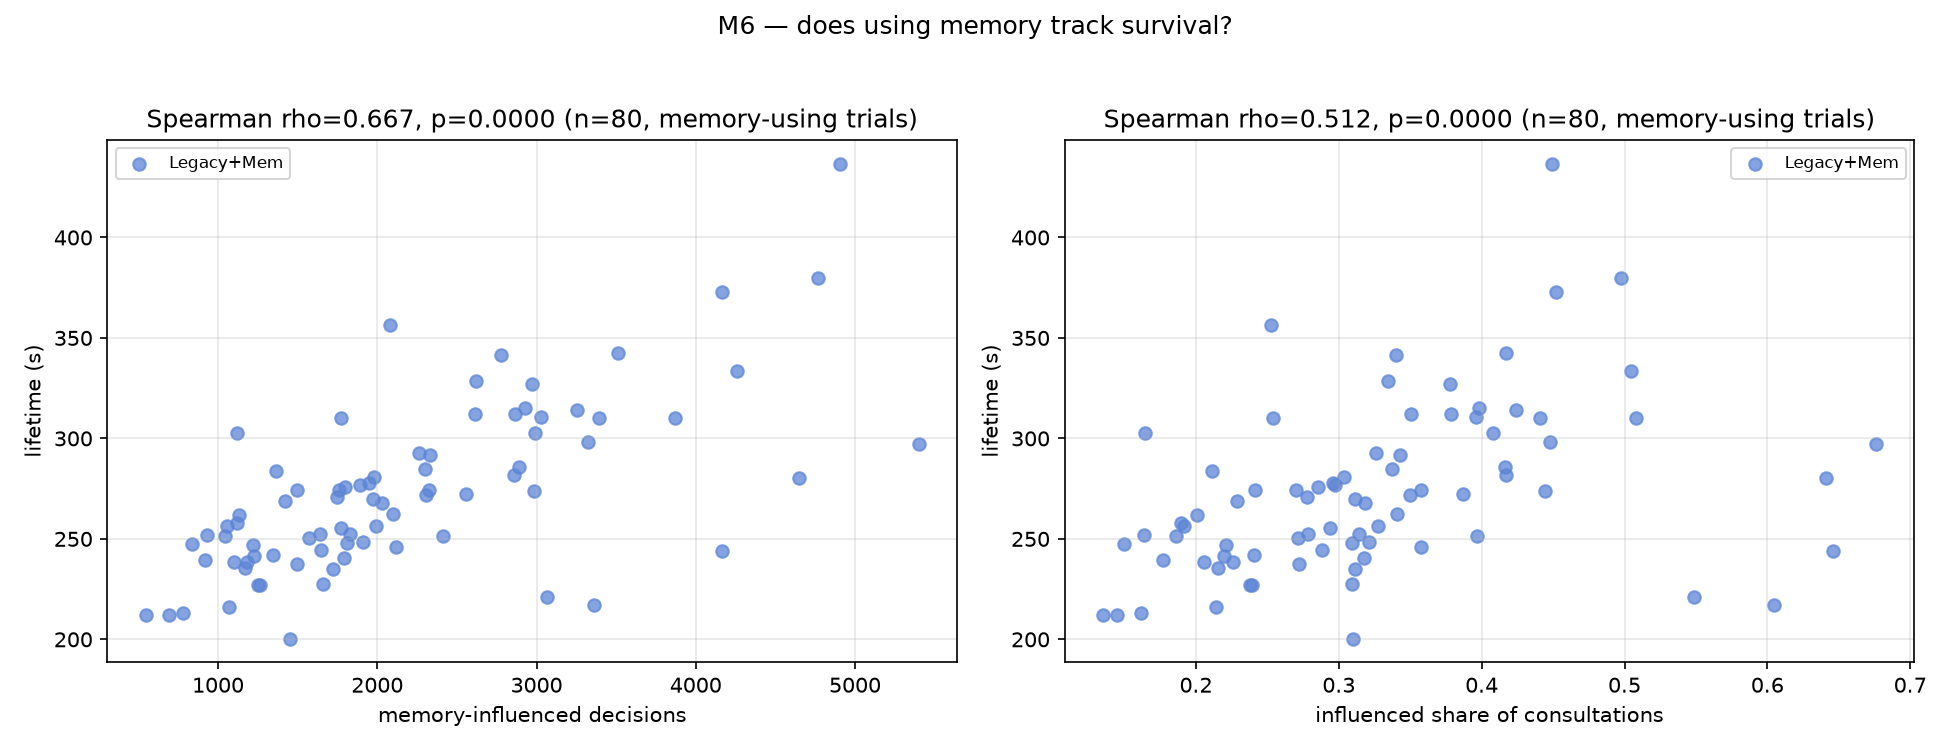
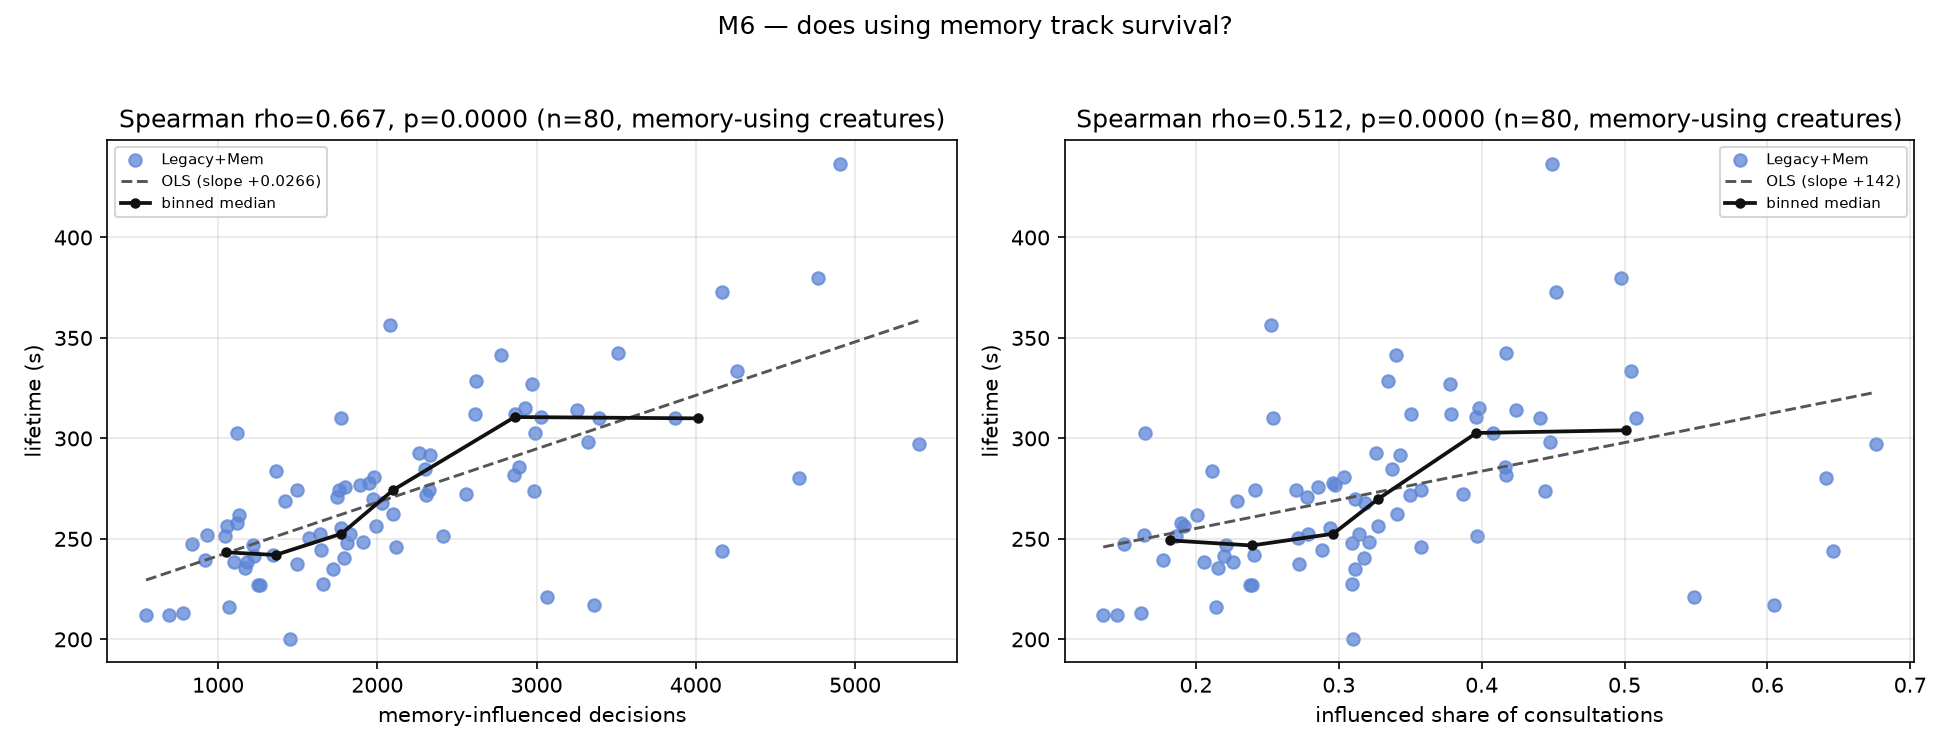
feat(p84): give M6 a trend line — and it shows the benefit saturates
M6 plotted a scatter with a Spearman coefficient in the title and nothing drawn through the
points, so the association it reports had to be taken on trust.

Two lines, not one. The dashed OLS fit is what a reader expects, but on its own it would assert
a linearity the statistic never tested — Spearman is a RANK correlation, chosen precisely
because lifetime is right-skewed and a couple of long-lived outliers can swing a least-squares
line. The solid binned-median line shows the monotone trend Spearman does test and is robust to
those outliers.

They disagree, which is the point. The binned median PLATEAUS at roughly 2,800 memory-influenced
decisions (~0.40 of consultations) while OLS keeps rising, so the benefit of using memory
saturates: the first increments buy most of the extra lifetime and further use adds little.
Reporting only the OLS line would have implied a benefit that continues indefinitely.

The report's caption now states that, the coefficients (rho=+0.667 count, +0.512 share, both
p<0.0001, n=80), and the figure's real scope — only legacy_mem contributes, because M6 needs a
lifetime and the other two memory arms have no deaths at all.

Refs #84

diff --git a/analysis/experiments/p84_memory_common.py b/analysis/experiments/p84_memory_common.py
@@ -402,6 +402,43 @@ def consolidation(episodes: pd.DataFrame, traces: pd.DataFrame, creatures: pd.Da
 # M6 — is memory helpful?
 # ---------------------------------------------------------------------------
 
+def _trend(ax, x, y, bins: int = 6) -> None:
+    """Draw the association the scatter is claiming: a binned-median trend and an OLS line.
+
+    Both, because they answer different questions and disagreeing is informative. The reported
+    statistic is Spearman — a RANK correlation, chosen because lifetime is heavily right-skewed
+    — so an OLS line alone would quietly assert a linearity the statistic never tested, and a
+    couple of long-lived outliers can swing it. The binned medians show the monotone trend
+    Spearman actually measures and are robust to those outliers.
+    """
+    x = np.asarray(x, dtype=float)
+    y = np.asarray(y, dtype=float)
+    ok = ~(np.isnan(x) | np.isnan(y))
+    x, y = x[ok], y[ok]
+    if len(x) < 3 or np.ptp(x) == 0:
+        return
+
+    # OLS, dashed — descriptive only.
+    slope, intercept = np.polyfit(x, y, 1)
+    xs = np.linspace(x.min(), x.max(), 50)
+    ax.plot(xs, slope * xs + intercept, ls="--", lw=1.4, color="#555555",
+            label=f"OLS (slope {slope:+.3g})", zorder=3)
+
+    # Binned medians, solid — the monotone trend Spearman tests, robust to skew.
+    edges = np.quantile(x, np.linspace(0, 1, bins + 1))
+    edges = np.unique(edges)
+    if len(edges) >= 3:
+        centres, meds = [], []
+        for lo, hi in zip(edges[:-1], edges[1:]):
+            m = (x >= lo) & (x <= hi if hi == edges[-1] else x < hi)
+            if m.sum() >= 2:
+                centres.append(np.median(x[m]))
+                meds.append(np.median(y[m]))
+        if len(centres) >= 2:
+            ax.plot(centres, meds, "-o", lw=1.8, ms=4, color="#111111",
+                    label="binned median", zorder=4)
+
+
 def memory_use_vs_survival(decisions: pd.DataFrame, creatures: pd.DataFrame, cfg) -> dict:
     """Lifetime against how much the creature actually used memory, pooled across arms.
 
@@ -448,10 +485,11 @@ def memory_use_vs_survival(decisions: pd.DataFrame, creatures: pd.DataFrame, cfg
         if len(sub) >= 3:
             rho, p = scipy_stats.spearmanr(sub[col], sub["lifetime_s"])
             stats[col] = (rho, p, len(sub))
-            ax.set_title(f"Spearman rho={rho:.3f}, p={p:.4f} (n={len(sub)}, memory-using trials)")
+            ax.set_title(f"Spearman rho={rho:.3f}, p={p:.4f} (n={len(sub)}, memory-using creatures)")
+            _trend(ax, sub[col].values, sub["lifetime_s"].values)
         ax.set_xlabel(xlabel)
         ax.set_ylabel("lifetime (s)")
-        ax.legend(fontsize=8)
+        ax.legend(fontsize=7)
         ax.grid(alpha=0.3)
 
     fig.suptitle("M6 — does using memory track survival?")

diff --git a/docs/reports/20260812_p84_behaviour_parity_report.md b/docs/reports/20260812_p84_behaviour_parity_report.md
@@ -43,16 +43,16 @@ Restated from the recipe because several of them determine what the results can 
 
 ## Hypothesis
 
-| ID | Claim |
-|---|---|
-| **P1** | Memory shortens the interaction interval, and the gap widens with k (Mapa Fig. 47) |
-| **P2** | With memory, RANDOM is displaced as memory engages (Campos Fig. 5/6) |
-| **P3** | Nearest and Affordances are used similarly with and without memory |
-| **P4** | Memory extends life; ratio compared against Campos's 6.7× |
-| **P5** | Time alive rises with interaction count, memory above no-memory (shape only) |
+| ID     | Claim                                                                                   |
+| ------ | --------------------------------------------------------------------------------------- |
+| **P1** | Memory shortens the interaction interval, and the gap widens with k (Mapa Fig. 47)      |
+| **P2** | With memory, RANDOM is displaced as memory engages (Campos Fig. 5/6)                    |
+| **P3** | Nearest and Affordances are used similarly with and without memory                      |
+| **P4** | Memory extends life; ratio compared against Campos's 6.7×                               |
+| **P5** | Time alive rises with interaction count, memory above no-memory (shape only)            |
 | **S1** | In the all-rewarding world the interval decreases monotonically, unlike the mixed world |
-| **D1** | Learned APPROACH share against Mapa's 0.25/0.40/0.70 |
-| **D2** | Memory forms, is increasingly used and increasingly decisive; use tracks survival |
+| **D1** | Learned APPROACH share against Mapa's 0.25/0.40/0.70                                    |
+| **D2** | Memory forms, is increasingly used and increasingly decisive; use tracks survival       |
 
 ---
 
@@ -62,11 +62,11 @@ Restated from the recipe because several of them determine what the results can 
 
 Rate, not count, because the arms terminate differently (assumption 5).
 
-| pair | no-memory | memory | Cliff's δ | creature-level | trial-level |
-|---|---|---|---|---|---|
-| legacy | 11.31 | **13.37** | +0.718 | p=4.4e-15 | p=1.5e-06 ✓ |
-| current | 73.50 | **88.68** | — | p<1e-15 | p=1.5e-06 ✓ |
-| simple | 39.07 | **41.01** | — | p=0.001 | p=0.004 ✓ |
+| pair    | no-memory | memory    | Cliff's δ | creature-level | trial-level |
+| ------- | --------- | --------- | --------- | -------------- | ----------- |
+| legacy  | 11.31     | **13.37** | +0.718    | p=4.4e-15      | p=1.5e-06 ✓ |
+| current | 73.50     | **88.68** | —         | p<1e-15        | p=1.5e-06 ✓ |
+| simple  | 39.07     | **41.01** | —         | p=0.001        | p=0.004 ✓   |
 
 All `consistent` — creature-level and trial-level agree, so this is not within-trial
 pseudo-replication.
@@ -75,11 +75,11 @@ pseudo-replication.
 
 RANDOM collapses to near zero wherever memory is enabled, and the operant table absorbs it:
 
-| pair | RANDOM (no-mem → mem) | AFFORDANCE (no-mem → mem) |
-|---|---|---|
-| legacy | 0.283 → **0.008** | 0.536 → 0.748 |
-| current | 0.668 → **0.003** | 0.228 → 0.873 |
-| simple | 0.668 → **0.048** | 0.288 → 0.773 |
+| pair    | RANDOM (no-mem → mem) | AFFORDANCE (no-mem → mem) |
+| ------- | --------------------- | ------------------------- |
+| legacy  | 0.283 → **0.008**     | 0.536 → 0.748             |
+| current | 0.668 → **0.003**     | 0.228 → 0.873             |
+| simple  | 0.668 → **0.048**     | 0.288 → 0.773             |
 
 This is Campos's central claim — random choice stops being needed once memory engages — and it
 reproduces in every pair, `consistent` at both levels.
@@ -110,11 +110,11 @@ which is P3; the collapse of red RANDOM into orange AFFORDANCE is P2.*
 
 ### P4 — confirmed in the only pair that can test it
 
-| pair | mortality | KM median | log-rank |
-|---|---|---|---|
-| legacy | 80/80 vs 80/80 | 243 s → **269 s** (1.11×) | χ²=15.8, **p=0.0001** |
-| current | 0/80 vs 0/80 | beyond cap | no events |
-| simple | 0/80 vs 0/80 | beyond cap | no events |
+| pair    | mortality      | KM median                 | log-rank              |
+| ------- | -------------- | ------------------------- | --------------------- |
+| legacy  | 80/80 vs 80/80 | 243 s → **269 s** (1.11×) | χ²=15.8, **p=0.0001** |
+| current | 0/80 vs 0/80   | beyond cap                | no events             |
+| simple  | 0/80 vs 0/80   | beyond cap                | no events             |
 
 Memory extends life, but at **1.11×** against Campos's published **6.7×** — we reproduce the
 direction, not the magnitude. The other two pairs cannot test P4 at any cap: their creatures do
@@ -203,9 +203,21 @@ deciles.*
 
 ![Memory use vs survival](figures/p84_behaviour_parity/m6_memory_use_vs_survival.png)
 
-*M6 — lifetime against how much the creature actually used memory, pooled across arms. This is
-the plot that most directly asks whether **using** memory (not merely having it) tracks
-survival, using the spread across arms as natural variation.*
+*M6 — lifetime against how much the creature actually used memory. This is the plot that most
+directly asks whether **using** memory, not merely having it, tracks survival:
+**Spearman ρ=+0.667 (count) and +0.512 (share), both p<0.0001, n=80**.*
+
+*Two trend lines, because they disagree in an informative way. The dashed OLS line is
+descriptive only — the reported statistic is Spearman, a rank correlation chosen because
+lifetime is right-skewed. The solid binned-median line shows the monotone trend Spearman
+actually tests, and it **plateaus** at roughly 2,800 influenced decisions (~0.40 of
+consultations) while OLS keeps climbing. So the benefit of using memory **saturates**: the first
+increments of memory use buy most of the extra lifetime and further use adds little. An OLS line
+alone would have implied a linear benefit that continues indefinitely.*
+
+*Scope: only `legacy_mem` contributes. M6 needs a real lifetime, and the other two memory arms
+have no deaths at all (0/80), so their `lifetime_s` is null by construction. This is the same
+restriction that limits P4, for the same reason.*
 
 M5 (consolidation) is absent: no arm enables `consolidationEnabled`, and the campaign spec has
 no `*_consol` arm. Separately, `MEMORY_CONSOLIDATION_THRESHOLD = 0.1` is unreachable at the
